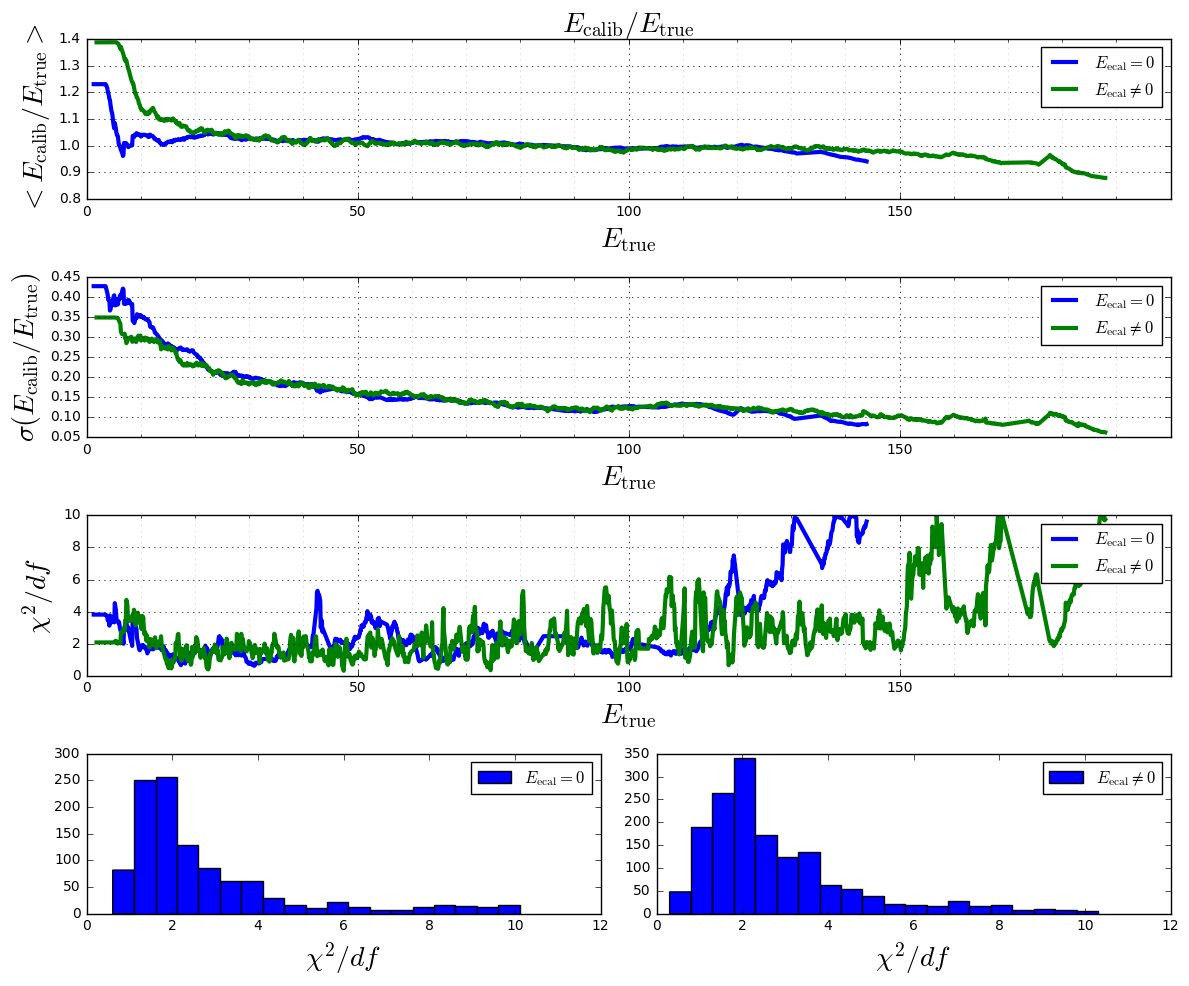
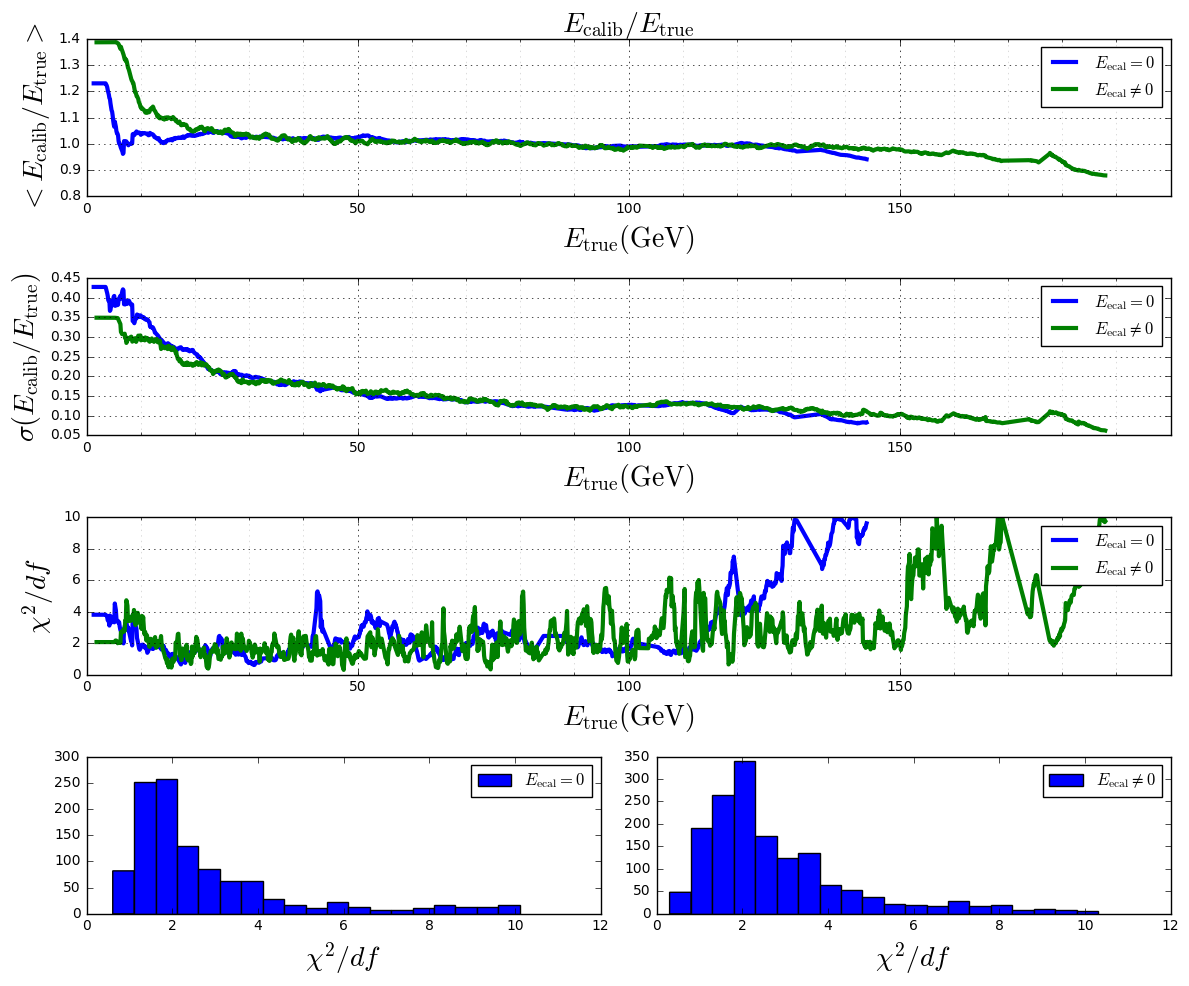
adding og units in the plots

diff --git a/pfcalibration/usualplots.py b/pfcalibration/usualplots.py
@@ -31,15 +31,15 @@ def plotCalibrationCurve(calib):
     plt.subplot(gs[0])
     plt.plot(hcal_train,true_train,'.',markersize=1)
     plt.plot(h,t,lw=2)
-    plt.xlabel(r"$E_{\rm hcal}$",fontsize=20)
-    plt.ylabel(r"$E_{\rm true}$",fontsize=20)
+    plt.xlabel(r"$E_{\rm hcal} \rm{(GeV)}$ ",fontsize=20)
+    plt.ylabel(r"$E_{\rm true} \rm{(GeV)}$",fontsize=20)
     plt.title(r"$E_{\rm ecal} = 0$",fontsize=20)
     plt.axis([0,max(h),0,max(t)])
     plt.subplot(gs[1])
     plt.plot(hcal_train,true_train,'.',markersize=1)
     plt.plot(h,t,lw=2)
-    plt.xlabel(r"$E_{\rm hcal}$",fontsize=20)
-    plt.ylabel(r"$E_{\rm true}$",fontsize=20)
+    plt.xlabel(r"$E_{\rm hcal} \rm{(GeV)}$",fontsize=20)
+    plt.ylabel(r"$E_{\rm true} \rm{(GeV)}$",fontsize=20)
     plt.title(r"$E_{\rm ecal} = 0$",fontsize=20)
     plt.axis([0,12,0,calib.predict(0,12)])
     plt.tight_layout()
@@ -128,7 +128,7 @@ def plot_ecalib_over_etrue_functionof_etrue(calib,dataToPredict):
     plt.axis([0,200,0.5,1.5])
     plt.plot(energy,mean_gaussianfit,lw=3)
     plt.plot([0,200],[1,1],'--',lw = 2,color='yellow')
-    plt.xlabel(r"$E_{\rm true}$",fontsize=20)
+    plt.xlabel(r"$E_{\rm true} \rm{(GeV)}$",fontsize=20)
     plt.ylabel(r"$E_{\rm calib}/E_{\rm true}$",fontsize=20)
     plt.title(r"$E_{\rm ecal} = 0$",fontsize=20)
     plt.subplot(1,2,2)
@@ -136,7 +136,7 @@ def plot_ecalib_over_etrue_functionof_etrue(calib,dataToPredict):
     plt.axis([0,200,0.5,1.5])
     plt.plot(energy2,mean_gaussianfit2,lw=3)
     plt.plot([0,200],[1,1],'--',lw = 2,color='yellow')
-    plt.xlabel(r"$E_{\rm true}$",fontsize=20)
+    plt.xlabel(r"$E_{\rm true} \rm{(GeV)}$",fontsize=20)
     plt.ylabel(r"$E_{\rm calib}/E_{\rm true}$",fontsize=20)
     plt.title(r"$E_{\rm ecal} \neq 0$",fontsize=20)
     plt.tight_layout()
@@ -161,7 +161,7 @@ def plot_ecalib_over_etrue_functionof_ecal_hcal(calib,dataToPredict):
     plt.plot(h,r,'.',markersize=1,label=r"$E_{\rm calib}/E_{\rm true}$")
     plt.plot([0,200],[1,1],'--',lw = 3, color = "yellow")
     plt.ylabel(r"$E_{\rm calib}/E_{\rm true}$",fontsize = 15)
-    plt.xlabel(r"$E_{\rm hcal}$",fontsize = 15)
+    plt.xlabel(r"$E_{\rm hcal} \rm{(GeV)}$",fontsize = 15)
     plt.axis([0,calib.lim,0.5,1.5])
     energy_ecal_eq_0, means_ecal_eq_0, mean_gaussianfit_ecal_eq_0, sigma_gaussianfit_ecal_eq_0, reducedChi2_ecal_eq_0 = getMeans(h,r)
     plt.plot(energy_ecal_eq_0,mean_gaussianfit_ecal_eq_0,lw=3,label="mean (gaussian fit)")
@@ -172,8 +172,8 @@ def plot_ecalib_over_etrue_functionof_ecal_hcal(calib,dataToPredict):
     im = plt.imshow(Z_mean, cmap=plt.cm.seismic, extent=(0,calib.lim,0,calib.lim), origin='lower',vmin=0.9,vmax=1.1)
     plt.colorbar(im)
     plt.title(r"$E_{\rm ecal} \neq 0$",fontsize = 15)
-    plt.xlabel(r"$E_{\rm ecal}$",fontsize = 15)
-    plt.ylabel(r"$E_{\rm hcal}$",fontsize = 15)
+    plt.xlabel(r"$E_{\rm ecal} \rm{(GeV)}$",fontsize = 15)
+    plt.ylabel(r"$E_{\rm hcal} \rm{(GeV)}$",fontsize = 15)
     plt.tight_layout()
 
     
@@ -193,22 +193,22 @@ def hist_ecalib(calib,dataToPredict):
 
     plt.subplot(2,2,1)
     plt.hist(c,binwidth_array(c,2))
-    plt.xlabel(r"$E_{\rm calib}$",fontsize=20)
+    plt.xlabel(r"$E_{\rm calib} \rm{(GeV)}$",fontsize=20)
     plt.title(r"$E_{\rm ecal} = 0$",fontsize=20)
     plt.subplot(2,2,2)
     c2 = c2[np.invert(np.isnan(c2))]
     plt.hist(c2,binwidth_array(c2,2))
-    plt.xlabel(r"$E_{\rm calib}$",fontsize=20)
+    plt.xlabel(r"$E_{\rm calib} \rm{(GeV)}$",fontsize=20)
     plt.title(r"$E_{\rm ecal} \neq 0$",fontsize=20)
     plt.subplot(2,2,3)
     t = t[np.invert(np.isnan(t))]
     plt.hist(t,binwidth_array(t,2))
-    plt.xlabel(r"$E_{\rm true}$",fontsize=20)
+    plt.xlabel(r"$E_{\rm true} \rm{(GeV)}$",fontsize=20)
     plt.title(r"$E_{\rm ecal} = 0$",fontsize=20)
     plt.subplot(2,2,4)
     t2 = t2[np.invert(np.isnan(t2))]
     plt.hist(t2,binwidth_array(t2,2))
-    plt.xlabel(r"$E_{\rm true}$",fontsize=20)
+    plt.xlabel(r"$E_{\rm true} \rm{(GeV)}$",fontsize=20)
     plt.title(r"$E_{\rm ecal} \neq 0$",fontsize=20)
     plt.tight_layout()
 
@@ -234,7 +234,7 @@ def plot_gaussianfitcurve_ecalib_over_etrue_functionof_ecal_hcal(calib,dataToPre
     ax = plt.subplot(4,1,1)
     plt.plot(energy,mean_gaussianfit,lw=3, label = r"$E_{\rm ecal} = 0$")
     plt.plot(energy2,mean_gaussianfit2,lw=3, label = r"$E_{\rm ecal} \neq 0$")
-    plt.xlabel(r"$E_{\rm true}$",fontsize=20)
+    plt.xlabel(r"$E_{\rm true} \rm{(GeV)}$",fontsize=20)
     plt.title(r"$E_{\rm calib}/E_{\rm true}$",fontsize=20)
     plt.ylabel(r"$<E_{\rm calib}/E_{\rm true}>$",fontsize=20)
     plt.legend(loc='upper right')
@@ -251,7 +251,7 @@ def plot_gaussianfitcurve_ecalib_over_etrue_functionof_ecal_hcal(calib,dataToPre
     ax = plt.subplot(4,1,2)
     plt.plot(energy,sigma_gaussianfit,lw=3, label = r"$E_{\rm ecal} = 0$")
     plt.plot(energy2,sigma_gaussianfit2,lw=3, label = r"$E_{\rm ecal} \neq 0$")
-    plt.xlabel(r"$E_{\rm true}$",fontsize=20)
+    plt.xlabel(r"$E_{\rm true} \rm{(GeV)}$",fontsize=20)
     plt.ylabel(r"$\sigma (E_{\rm calib}/E_{\rm true})$",fontsize=20)
     plt.legend(loc='upper right')
     major_ticks = np.arange(0, 200, 50)
@@ -267,7 +267,7 @@ def plot_gaussianfitcurve_ecalib_over_etrue_functionof_ecal_hcal(calib,dataToPre
     ax = plt.subplot(4,1,3)
     plt.plot(energy,reducedChi2,lw=3, label = r"$E_{\rm ecal} = 0$")
     plt.plot(energy2,reducedChi22,lw=3, label = r"$E_{\rm ecal} \neq 0$")
-    plt.xlabel(r"$E_{\rm true}$",fontsize=20)
+    plt.xlabel(r"$E_{\rm true} \rm{(GeV)}$",fontsize=20)
     plt.ylabel(r"$\chi^2/df$",fontsize=20)
     plt.legend(loc='upper right')
     major_ticks = np.arange(0, 200, 50)
@@ -304,10 +304,10 @@ def plot3D_training(data1):
     ax.set_xlim([0,data1.ecal_max])
     ax.set_ylim([0,data1.hcal_max])
     ax.set_zlim([0,data1.true_max])
-    ax.set_title("Training points")
-    ax.set_xlabel(r'$E_{\rm ecal}$',fontsize=20)
-    ax.set_ylabel(r'$E_{\rm hcal}$',fontsize=20)
-    ax.set_zlabel(r'$E_{\rm true}$',fontsize=20)
+    ax.set_title("Training points",fontsize=20)
+    ax.set_xlabel(r'$E_{\rm ecal} \rm{(GeV)}$',fontsize=20)
+    ax.set_ylabel(r'$E_{\rm hcal} \rm{(GeV)}$',fontsize=20)
+    ax.set_zlabel(r'$E_{\rm true} \rm{(GeV)}$',fontsize=20)
     plt.tight_layout()
 
     
@@ -328,10 +328,10 @@ def plot3D_surf(calib):
     ax.set_xlim([0,max(calib.ecal_train)])
     ax.set_ylim([0,max(calib.hcal_train)])
     ax.set_zlim([0,max(calib.true_train)])
-    ax.set_title("Calibration surface")
-    ax.set_xlabel(r'$E_{\rm ecal}$',fontsize=20)
-    ax.set_ylabel(r'$E_{\rm hcal}$',fontsize=20)
-    ax.set_zlabel(r'$E_{\rm true}$',fontsize=20)
+    ax.set_title("Calibration surface",fontsize=20)
+    ax.set_xlabel(r'$E_{\rm ecal} \rm{(GeV)}$',fontsize=20)
+    ax.set_ylabel(r'$E_{\rm hcal} \rm{(GeV)}$',fontsize=20)
+    ax.set_zlabel(r'$E_{\rm true} \rm{(GeV)}$',fontsize=20)
     plt.tight_layout()
     
 def comparison(calibs,dataToPredict):
@@ -365,7 +365,7 @@ def comparison(calibs,dataToPredict):
     for i in np.arange(len(calibs)):
         energy, means, mean_gaussianfit, sigma_gaussianfit, reducedChi2 = getMeans(t,r[i])
         plt.plot(energy,mean_gaussianfit,label = calibs[i].classname,lw=2)
-    plt.xlabel(r"$E_{\rm true}$",fontsize=20)
+    plt.xlabel(r"$E_{\rm true} \rm{(GeV)}$",fontsize=20)
     plt.ylabel(r"$<E_{\rm calib}/E_{\rm true}>$",fontsize=20)
     plt.title(r"$E_{\rm calib}/E_{\rm true}$ for $E_{\rm ecal} = 0$",fontsize=20)
     plt.axis([0,160,0.8,1.2])
@@ -385,7 +385,7 @@ def comparison(calibs,dataToPredict):
     for i in np.arange(len(calibs)):
         energy, means, mean_gaussianfit, sigma_gaussianfit, reducedChi2 = getMeans(t2,r2[i])
         plt.plot(energy,mean_gaussianfit,label = calibs[i].classname,lw=2)
-    plt.xlabel(r"$E_{\rm true}$",fontsize=20)
+    plt.xlabel(r"$E_{\rm true} \rm{(GeV)}$",fontsize=20)
     plt.ylabel(r"$<E_{\rm calib}/E_{\rm true}>$",fontsize=20)
     plt.title(r"$E_{\rm calib}/E_{\rm true}$ for $E_{\rm ecal} \neq 0$",fontsize=20)
     plt.axis([0,160,0.8,1.2])
@@ -405,7 +405,7 @@ def comparison(calibs,dataToPredict):
     for i in np.arange(len(calibs)):
         energy, means, mean_gaussianfit, sigma_gaussianfit, reducedChi2 = getMeans(t,r[i])
         plt.plot(energy,sigma_gaussianfit,label = calibs[i].classname,lw=2)
-    plt.xlabel(r"$E_{\rm true}$",fontsize=20)
+    plt.xlabel(r"$E_{\rm true} \rm{(GeV)}$",fontsize=20)
     plt.ylabel(r"$\sigma(E_{\rm calib}/E_{\rm true})$",fontsize=20)
     plt.title(r"$\sigma(E_{\rm calib}/E_{\rm true})$ for $E_{\rm ecal} = 0$",fontsize=20)
     plt.axis([0,160,0,0.6])
@@ -425,7 +425,7 @@ def comparison(calibs,dataToPredict):
     for i in np.arange(len(calibs)):
         energy, means, mean_gaussianfit, sigma_gaussianfit, reducedChi2 = getMeans(t2,r2[i])
         plt.plot(energy,sigma_gaussianfit,label = calibs[i].classname,lw=2)
-    plt.xlabel(r"$E_{\rm true}$",fontsize=20)
+    plt.xlabel(r"$E_{\rm true} \rm{(GeV)}$",fontsize=20)
     plt.ylabel(r"$\sigma(E_{\rm calib}/E_{\rm true})$",fontsize=20)
     plt.title(r"$\sigma(E_{\rm calib}/E_{\rm true})$ for $E_{\rm ecal} \neq 0$",fontsize=20)
     plt.axis([0,160,0,0.6])

diff --git a/test_KNNGF.py b/test_KNNGF.py
@@ -121,7 +121,7 @@ x = x[np.array(KNNGF.evaluatedPoint_hcal)+np.array(KNNGF.evaluatedPoint_ecal) < 
 fig = plt.figure(figsize=(7,6))
 plt.subplot(2,2,1)
 plt.plot(hcal_ecal_eq_0,KNNGF.evaluatedPoint_reducedchi2_ecal_eq_0)
-plt.xlabel(r"$E_{\rm hcal}$",fontsize=18)
+plt.xlabel(r"$E_{\rm hcal} \rm{(GeV)$",fontsize=18)
 plt.ylabel(r"$\chi^2/df$",fontsize=18)
 plt.title(r"$\chi^2/df$ for $E_{\rm ecal} = 0$",fontsize=18)
 plt.subplot(2,2,2)
@@ -138,8 +138,8 @@ vmax = 1.5
 im = plt.imshow(rrchi2_ecal_neq_0,cmap=plt.cm.seismic, extent=(xmin,xmax,ymin,ymax), origin='lower',vmin=vmin,vmax=vmax,interpolation='bilinear')
 plt.colorbar(im)
 plt.title(r"$\chi^2/df$ for $E_{\rm ecal} \neq 0$",fontsize=18)
-plt.ylabel(r"$E_{\rm hcal}$",fontsize=18)
-plt.xlabel(r"$E_{\rm ecal}$",fontsize=18)
+plt.ylabel(r"$E_{\rm hcal} \rm{(GeV)$",fontsize=18)
+plt.xlabel(r"$E_{\rm ecal} \rm{(GeV)$",fontsize=18)
 plt.subplot(2,2,4)
 plt.hist(x,binwidth_array(x))
 plt.xlabel(r"$\chi^2/df$",fontsize=18)
@@ -172,14 +172,14 @@ plt.subplot(1,2,1)
 plt.errorbar(bin_middles1, entries1, yerr=error1, fmt='o')
 xplot = np.arange(min(bin_middles1),max(bin_middles1),1)
 plt.plot(xplot,gaussian_param(xplot,*params1),lw=3)
-plt.xlabel(r"$E_{\rm true}$",fontsize=18)
-plt.title(r"histogram of $E_{true}$ for $(E_{ecal}="+str(np.around(e1,2))+",E_{hcal}="+str(np.around(h1,2))+")$",fontsize=18)
+plt.xlabel(r"$E_{\rm true} \rm{(GeV)$",fontsize=18)
+plt.title(r"histogram of $E_{true}$ for $(E_{ecal}="+str(np.around(e1,2))+" \rm{(GeV),E_{hcal}="+str(np.around(h1,2))+" \rm{(GeV))$",fontsize=18)
 plt.subplot(1,2,2)
 plt.errorbar(bin_middles2, entries2, yerr=error2, fmt='o')
 plt.plot(xplot,gaussian_param(xplot,*params2),lw=3)
 xplot = np.arange(min(bin_middles2),max(bin_middles2),1)
-plt.xlabel(r"$E_{\rm true}$",fontsize=18)
-plt.title(r"histogram of $E_{true}$ for $(E_{ecal}="+str(np.around(e2,2))+",E_{hcal}="+str(np.around(h2,2))+")$",fontsize=18)
+plt.xlabel(r"$E_{\rm true} \rm{(GeV)$",fontsize=18)
+plt.title(r"histogram of $E_{true}$ for $(E_{ecal}="+str(np.around(e2,2))+" \rm{(GeV),E_{hcal}="+str(np.around(h2,2))+" \rm{(GeV))$",fontsize=18)
 plt.tight_layout()
 plt.show()
 savefig(fig,directory,classname+"_hist_calib.png")
@@ -191,7 +191,7 @@ xplot = np.arange(min(bin_middles1),max(bin_middles1),1)
 plt.plot(xplot,gaussian_param(xplot,*params1),lw=3)
 plt.plot([params1[1],params1[1]],[0,max(entries1)],'--',lw=2,label="gaussian fit mean "+str(np.around(params1[1],2)))
 plt.plot([m1,m1],[0,max(entries1)],'--',lw=2,label = "classical mean "+str(np.around(m1,2)))
-plt.xlabel(r"$E_{\rm true}$",fontsize=18)
+plt.xlabel(r"$E_{\rm true} \rm{(GeV)$",fontsize=18)
 plt.ylabel(r"frequence",fontsize=18)
 plt.title(r"Neighbors of $(E_{ecal}="+str(np.around(e1,2))+",E_{hcal}="+str(np.around(h1,2))+")$",fontsize=18)
 plt.legend(loc="upper right",fontsize=9)
@@ -212,8 +212,8 @@ hcal_train = KNNGF.hcal_train[KNNGF.ecal_train == 0]
 true_train = KNNGF.true_train[KNNGF.ecal_train == 0]
 plt.subplot(1,2,1)
 plt.plot(hcal_train,true_train,'.',markersize=1)
-plt.xlabel(r"$E_{\rm hcal}$",fontsize=20)
-plt.ylabel(r"$E_{\rm true}$",fontsize=20)
+plt.xlabel(r"$E_{\rm hcal} \rm{(GeV)$",fontsize=20)
+plt.ylabel(r"$E_{\rm true} \rm{(GeV)$",fontsize=20)
 for i in np.arange(len(neigh_hcal_ecal_eq_0)):
     plt.plot(neigh_hcal_ecal_eq_0[i],neigh_true_ecal_eq_0[i],'.',color='red',markersize=1)
 plt.title(r"neighbors for $E_{\rm ecal} = 0$",fontsize=18)
@@ -226,8 +226,8 @@ neigh_ecal_ecal_neq_0 = neigh_ecal_ecal_neq_0[np.array(KNNGF.evaluatedPoint_ecal
 neigh_hcal_ecal_neq_0 = np.array(KNNGF.evaluatedPoint_neighbours_hcal)
 neigh_hcal_ecal_neq_0 = neigh_hcal_ecal_neq_0[np.array(KNNGF.evaluatedPoint_ecal)+np.array(KNNGF.evaluatedPoint_hcal)<lim]
 plt.subplot(1,2,2)
-plt.xlabel(r"$E_{\rm ecal}$",fontsize=20)
-plt.ylabel(r"$E_{\rm hcal}$",fontsize=20)
+plt.xlabel(r"$E_{\rm ecal} \rm{(GeV)$",fontsize=20)
+plt.ylabel(r"$E_{\rm hcal} \rm{(GeV)$",fontsize=20)
 for i in np.arange(len(neigh_hcal_ecal_neq_0)):
     plt.plot(neigh_ecal_ecal_neq_0[i],neigh_hcal_ecal_neq_0[i],'.',markersize=1)
 plt.title(r"neighbors for $E_{\rm ecal} \neq 0$",fontsize=18)

diff --git a/test_KNNGC.py b/test_KNNGC.py
@@ -118,7 +118,7 @@ x = x[np.array(KNNGC.evaluatedPoint_hcal)+np.array(KNNGC.evaluatedPoint_ecal) < 
 fig = plt.figure(figsize=(7,6))
 plt.subplot(2,2,1)
 plt.plot(hcal_ecal_eq_0,KNNGC.evaluatedPoint_reducedchi2_ecal_eq_0)
-plt.xlabel(r"$E_{\rm hcal}$",fontsize=18)
+plt.xlabel(r"$E_{\rm hcal} \rm{(GeV)$",fontsize=18)
 plt.ylabel(r"$\chi^2/df$",fontsize=18)
 plt.title(r"$\chi^2/df$ for $E_{\rm ecal} = 0$",fontsize=18)
 plt.subplot(2,2,2)
@@ -135,8 +135,8 @@ vmax = 1.5
 im = plt.imshow(rrchi2_ecal_neq_0,cmap=plt.cm.seismic, extent=(xmin,xmax,ymin,ymax), origin='lower',vmin=vmin,vmax=vmax,interpolation='bilinear')
 plt.colorbar(im)
 plt.title(r"$\chi^2/df$ for $E_{\rm ecal} \neq 0$",fontsize=18)
-plt.ylabel(r"$E_{\rm hcal}$",fontsize=18)
-plt.xlabel(r"$E_{\rm ecal}$",fontsize=18)
+plt.ylabel(r"$E_{\rm hcal} \rm{(GeV)$",fontsize=18)
+plt.xlabel(r"$E_{\rm ecal} \rm{(GeV)$",fontsize=18)
 plt.subplot(2,2,4)
 plt.hist(x,binwidth_array(x))
 plt.xlabel(r"$\chi^2/df$",fontsize=18)
@@ -169,14 +169,14 @@ plt.subplot(1,2,1)
 plt.errorbar(bin_middles1, entries1, yerr=error1, fmt='o')
 xplot = np.arange(min(bin_middles1),max(bin_middles1),1)
 plt.plot(xplot,gaussian_param(xplot,*params1),lw=3)
-plt.xlabel(r"$E_{\rm true}$",fontsize=18)
-plt.title(r"histogram of $E_{true}$ for $(E_{ecal}="+str(np.around(e1,2))+",E_{hcal}="+str(np.around(h1,2))+")$",fontsize=18)
+plt.xlabel(r"$E_{\rm true} \rm{(GeV)$",fontsize=18)
+plt.title(r"histogram of $E_{true}$ for $(E_{ecal}="+str(np.around(e1,2))+" \rm{(GeV),E_{hcal}="+str(np.around(h1,2))+" \rm{(GeV))$",fontsize=18)
 plt.subplot(1,2,2)
 plt.errorbar(bin_middles2, entries2, yerr=error2, fmt='o')
 plt.plot(xplot,gaussian_param(xplot,*params2),lw=3)
 xplot = np.arange(min(bin_middles2),max(bin_middles2),1)
-plt.xlabel(r"$E_{\rm true}$",fontsize=18)
-plt.title(r"histogram of $E_{true}$ for $(E_{ecal}="+str(np.around(e2,2))+",E_{hcal}="+str(np.around(h2,2))+")$",fontsize=18)
+plt.xlabel(r"$E_{\rm true} \rm{(GeV)$",fontsize=18)
+plt.title(r"histogram of $E_{true}$ for $(E_{ecal}="+str(np.around(e2,2))+", \rm{(GeV)E_{hcal}="+str(np.around(h2,2))+" \rm{(GeV))$",fontsize=18)
 plt.tight_layout()
 plt.show()
 savefig(fig,directory,classname+"_hist_calib.png")

diff --git a/displaydata.py b/displaydata.py
@@ -42,8 +42,8 @@ true_ecal_eq_0 = data1.true[ecal == 0]
 
 fig = plt.figure(figsize=(7,7))
 plt.title(r"Points with $E_{\rm ecal} = 0$",fontsize = 18)
-plt.xlabel(r"$E_{\rm hcal}$",fontsize = 18)
-plt.ylabel(r"$E_{\rm true}$",fontsize = 18)
+plt.xlabel(r"$E_{\rm hcal} \rm{(GeV)}$",fontsize = 18)
+plt.ylabel(r"$E_{\rm true} \rm{(GeV)}$",fontsize = 18)
 plt.axis([0,max(hcal_ecal_eq_0),0,max(true_ecal_eq_0)])
 plt.plot(hcal_ecal_eq_0,true_ecal_eq_0,'.',markersize=1)
 plt.tight_layout()
@@ -54,8 +54,8 @@ plt.close()
 fig = plt.figure(figsize=(12,6))
 plt.subplot(2,2,2)
 plt.title(r"Points with $E_{\rm ecal} = 0$",fontsize = 18)
-plt.xlabel(r"$E_{\rm hcal}$",fontsize = 18)
-plt.ylabel(r"$E_{\rm true}$",fontsize = 18)
+plt.xlabel(r"$E_{\rm hcal} \rm{(GeV)}$",fontsize = 18)
+plt.ylabel(r"$E_{\rm true} \rm{(GeV)}$",fontsize = 18)
 
 plt.plot(hcal_ecal_eq_0,true_ecal_eq_0,'.',markersize=1)
 ind = hcal_ecal_eq_0 > lim
@@ -64,8 +64,8 @@ plt.plot([lim,lim],[0,max(true_ecal_eq_0)],'--',lw=2)
 
 plt.subplot(2,2,4)
 plt.title(r"Points with $\theta \in [\pi/4;\pi/4 + \pi/40]$",fontsize = 18)
-plt.xlabel(r"$E_{\rm \theta}$",fontsize = 18)
-plt.ylabel(r"$E_{\rm true}$",fontsize = 18)
+plt.xlabel(r"$E_{\rm \theta} \rm{(GeV)}$",fontsize = 18)
+plt.ylabel(r"$E_{\rm true} \rm{(GeV)}$",fontsize = 18)
 
 plt.plot(proj[0],proj[1],'.',markersize=1)
 ind = proj[0] > rlim
@@ -77,8 +77,8 @@ plt.plot(ecal,hcal,'.',markersize=1)
 ind = ecal+hcal > lim
 plt.plot(ecal[ind],hcal[ind],'.',markersize=1, label = r"rejected points")
 plt.plot(select[0],select[1],'.',markersize=1, label = r"$\theta \in [\pi/4;\pi/4 + \pi/40]$")
-plt.xlabel(r"$E_{\rm ecal}$",fontsize = 18)
-plt.ylabel(r"$E_{\rm hcal}$",fontsize = 18)
+plt.xlabel(r"$E_{\rm ecal} \rm{(GeV)}$",fontsize = 18)
+plt.ylabel(r"$E_{\rm hcal} \rm{(GeV)}$",fontsize = 18)
 plt.legend(loc="upper right",fontsize = 16 )
 plt.axis([0,250,0,250])
 plt.tight_layout()
